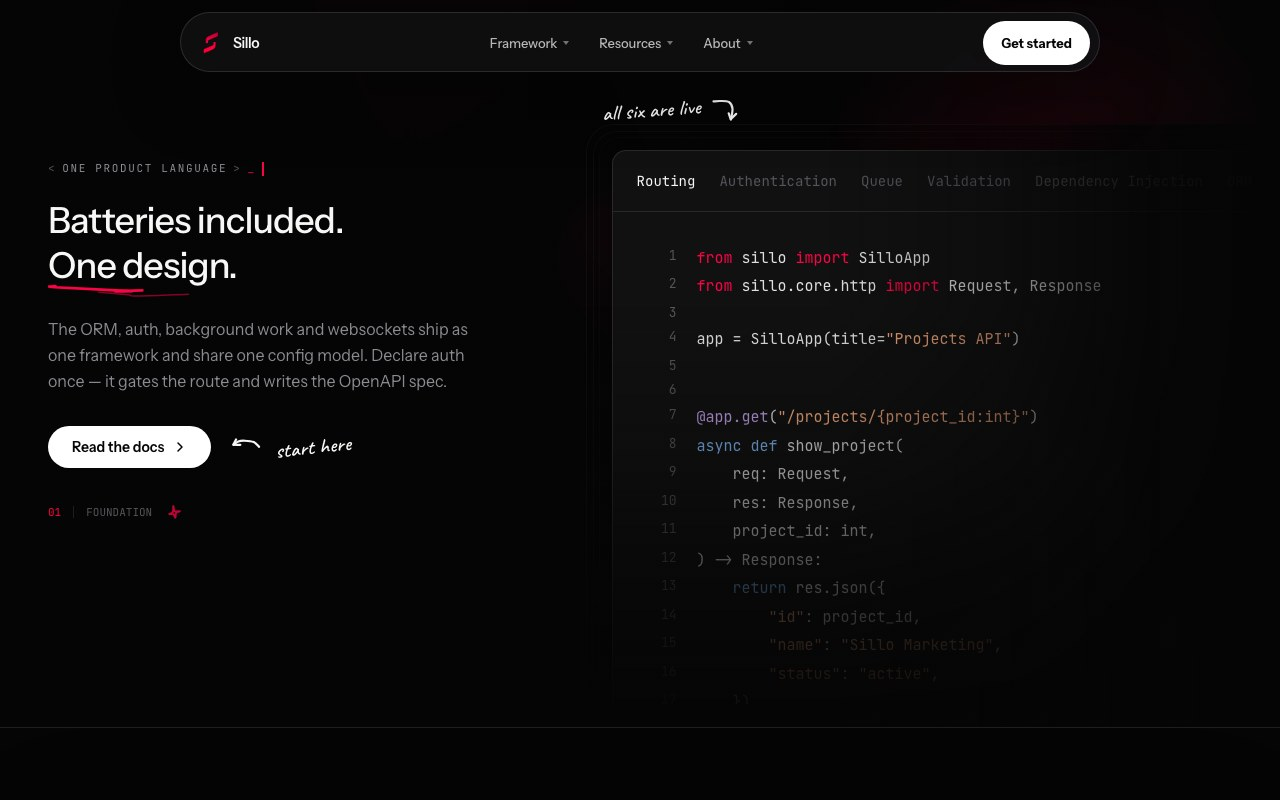
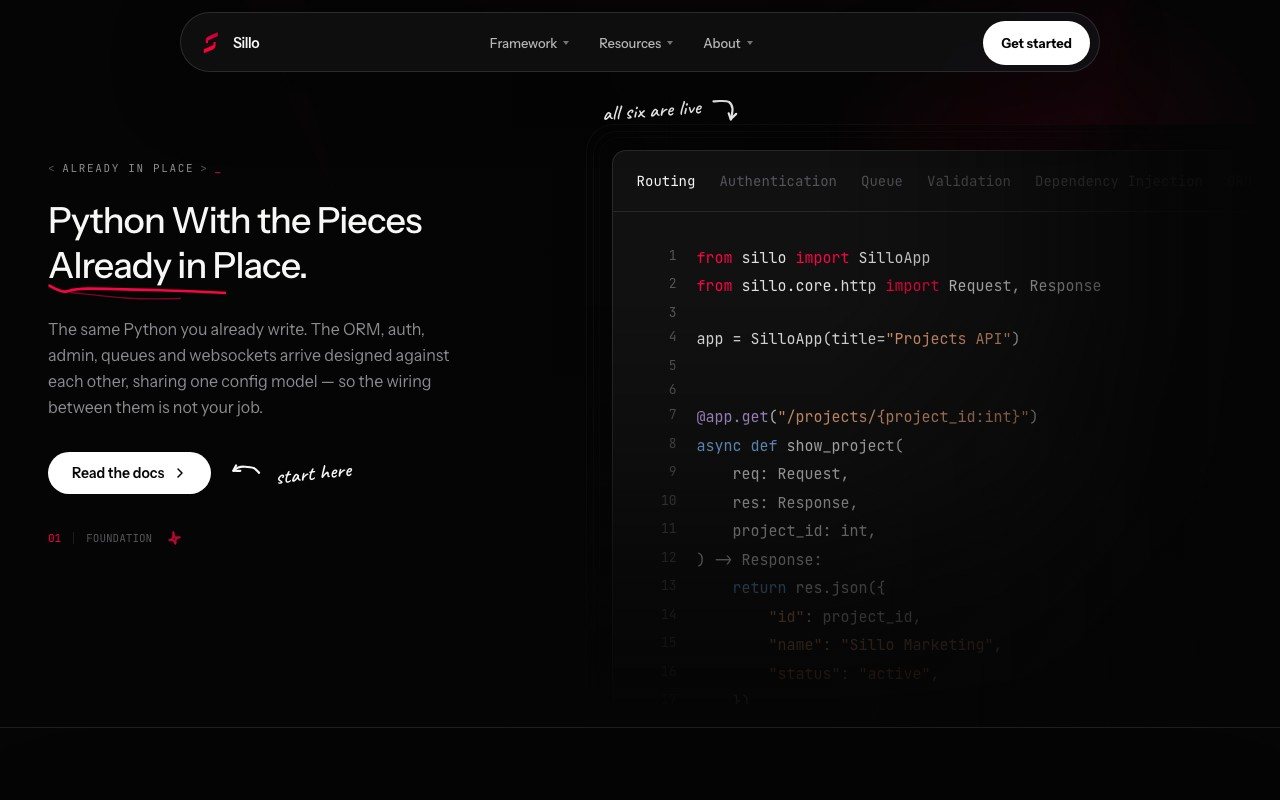
Reposition the site around the new brand tagline
"Python With the Pieces Already in Place." becomes the hero line, and
the supporting copy is rewritten so every section ladders up to it: the
same Python you already write, with the backend pieces designed against
each other instead of gathered together.

The hero headline was an h2 and the page had no h1 at all. It is now the
h1, which is both correct structurally and the right element for the
line the site is built around.

Replaces the About roadmap board. It marked Mail, Cache, Admin,
Scheduler, Inertia and GraphQL as planning, in-progress or under review
while the docs, the homepage and the comparison table all present them
as shipped — each was verified against the docs tree and pyproject
before the change. It is now an inventory grouped by application area,
with the card design, dots and counts unchanged.

Metadata now splits by audience: title and description are keyword-led
because they are matched against queries, while og:/twitter: carry the
tagline because a human reads those in a shared link.

og-image.jpg is regenerated from the live hero — it is a screenshot, so
it still had the previous tagline baked into it and every share would
have carried the old positioning.

diff --git a/app/routes/about.tsx b/app/routes/about.tsx
@@ -12,16 +12,18 @@ const ABOUT_TABS = [
     id: 'philosophy',
     label: 'What Sillo is',
     eyebrow: '01 / WHAT SILLO IS',
-    title: 'One product language for the whole async Python stack.',
-    intro: 'Sillo is one framework where the ORM, auth, background work, websockets and HTTP layer are designed against each other and share one config model.',
+    title: 'One framework, designed as one thing.',
+    intro: 'Sillo is the Python you already write, with the ORM, auth, background work, websockets and HTTP layer already in place — designed against each other and sharing one config model.',
     body: [
-      'A product that starts as one route quickly needs validation, migrations, permissions, background jobs, mail, caching, events, WebSockets, and an admin. Assembled from separate packages, each of those arrives with its own interface, its own configuration style, its own failure mode, and its own upgrade cycle. The cost is rarely the install. It is the seams between them.',
-      'Sillo removes the seams. Record, auth, Work, and websockets are first-party modules built against one another: they share a configuration model, a testing story, and a set of naming conventions. Reading one subsystem teaches you how to read the next.',
+      'The language does not change. You write the same Python, with the same type hints and the same async you already know. What changes is how much of the backend is waiting for you when you start.',
+      'A product that begins as one route quickly needs validation, migrations, permissions, background jobs, mail, caching, events, WebSockets, and an admin. Every one of those is a solved problem with good packages behind it. The work that remains is the fitting: each arrives with its own interface, its own configuration style, its own failure mode, and its own upgrade cycle. The cost is rarely the install. It is the seams between them.',
+      'Sillo puts those pieces in place with the seams already closed. Record, auth, Work, and websockets are first-party modules built against one another: they share a configuration model, a testing story, and a set of naming conventions. Reading one subsystem teaches you how to read the next.',
       'That coherence shows up in small places. One auth= declaration gates a route and writes its securityScheme into the OpenAPI spec, so the gate and the document cannot drift apart. The scheduler registers on app.state and starts with the application lifecycle. Range requests, ETags, and content negotiation are middleware rather than something each project rewrites.',
       'Sillo is opinionated at the defaults and open at the boundaries. The common path is short: SilloApp, a route, a request_model, a Record model. The advanced path is documented rather than hidden — auth backends, middleware, cache drivers, session stores, and hashing algorithms are all contracts you can implement yourself.',
       'Trade-offs are decisions, not gaps. The sillo command carries the framework-level operations, and inside a project it merges in whatever that project registers, so sillo db:migrate works without the framework owning the command set. Underneath, every operation stays a plain function in sillo.record.commands, sillo.users.commands and sillo.work.commands — the names are yours to choose.',
       'The admin panel follows the same rule. It registers your models and authenticates against your own user model instead of shipping a parallel user table, because a second identity system is exactly the kind of seam Sillo exists to remove.',
       'Modules stay useful on their own. Point Record at SQLite or Postgres, swap the cache backend from memory to Redis, bring your own session store, serve a React or Vue frontend through Inertia, or add a Strawberry GraphQL endpoint. Strong defaults make the common path fast; documented contracts keep advanced teams in control.',
+      'In place does not mean installed regardless. The base package is the HTTP layer, routing, validation, dependency injection, and the middleware stack. Record, JWT, templating, Redis and the rest are optional extras declared in pyproject.toml and pulled in when the product actually needs them, so the dependency tree stays proportional to what you build.',
       'The operating principles are short: strong defaults with open boundaries, convenience without mystery, documentation as part of the interface, and compatibility as a promise. Anything the framework does on your behalf is something you can read, override, or replace.',
       'What Sillo avoids matters as much as what it ships. Not a set of modules that share a logo but not an architecture. Not convenience that turns into mystery the first time something breaks. Not impressive demos at the expense of upgrades, debugging, security, and production failure modes.',
       'The result is fewer disconnected decisions. You learn one set of conventions and apply them across HTTP, data, auth, and background work, and the framework holds those pieces together instead of leaving the joins to you.',
@@ -31,8 +33,8 @@ const ABOUT_TABS = [
     id: 'ships',
     label: 'What ships',
     eyebrow: '02 / WHAT SHIPS',
-    title: 'What is shipped, what is in flight, and what is next.',
-    intro: 'The working board for the framework — every subsystem tracked in the open, from planning to completed.',
+    title: 'Every piece, and what each one covers.',
+    intro: 'The full inventory of first-party modules, grouped by the part of the application they belong to. Each one is in the framework and documented.',
     body: [],
   },
   {
@@ -67,64 +69,68 @@ const BRAND_FONTS = [
   { name: 'JetBrains Mono', usage: 'Code, labels, metadata, terminal UI' },
 ]
 
+// Index ranges, so they must be re-checked whenever a paragraph is added to
+// or removed from ABOUT_TABS[0].body.
 const PHILOSOPHY_SECTIONS = [
-  { title: 'The Seams', paragraphs: ABOUT_TABS[0].body.slice(0, 3) },
-  { title: 'How Sillo Is Built', paragraphs: ABOUT_TABS[0].body.slice(3, 7) },
-  { title: 'Principles And Boundaries', paragraphs: ABOUT_TABS[0].body.slice(7) },
+  { title: 'The Seams', paragraphs: ABOUT_TABS[0].body.slice(0, 4) },
+  { title: 'How Sillo Is Built', paragraphs: ABOUT_TABS[0].body.slice(4, 9) },
+  { title: 'Principles And Boundaries', paragraphs: ABOUT_TABS[0].body.slice(9) },
 ]
 
+// Grouped by the part of the application each module belongs to. Everything
+// listed here is in the framework and has a documentation page — this board is
+// an inventory, not a schedule.
 const KANBAN_COLUMNS = [
   {
-    title: 'Planning',
-    tag: 'Scoped, not started',
-    dot: 'bg-dimmed',
-    pulse: false,
-    items: [
-      ['Mail', 'Templated mail', 'A mail client with queued delivery, built on the Work subsystem.'],
-      ['Events', 'Redis event transport', 'A Redis transport for the emitter, alongside the in-memory default.'],
-      ['Sessions', 'More session stores', 'Backends beyond signed-cookie and file, behind the same contract.'],
-      ['Templating', 'Server-side templating', 'Rendering helpers for HTML responses, with escaping by default.'],
-      ['Testing', 'Streaming test coverage', 'Sync and async test clients covering websockets and streamed responses.'],
-    ],
-  },
-  {
-    title: 'In Progress',
-    tag: 'Being built',
+    title: 'The request',
+    tag: 'HTTP and routing',
     dot: 'bg-primary',
-    pulse: true,
-    items: [
-      ['Work', 'Queues and workers', 'Durable background jobs as one subsystem with the scheduler.'],
-      ['Frontend', 'Inertia', 'Server-driven React and Vue frontends, served by the framework.'],
-      ['Cache', 'Cache backends', 'Pluggable drivers, from in-memory to Redis, behind one interface.'],
-      ['GraphQL', 'GraphQL endpoint', 'A Strawberry endpoint mounted beside the HTTP routes.'],
-    ],
-  },
-  {
-    title: 'Review',
-    tag: 'Under review',
-    dot: 'bg-amber-400',
-    pulse: false,
-    items: [
-      ['Admin', 'Admin panel', 'A model admin at /admin/ that authenticates against your own user model.'],
-      ['Tooling', 'sillo-start', 'New projects scaffolded from the starter repository, personalised on fetch.'],
-      ['Work', 'Scheduler', 'Cron-style jobs registered on app.state and started by the app lifecycle.'],
-    ],
-  },
-  {
-    title: 'Completed',
-    tag: 'Shipped',
-    dot: 'bg-emerald-400',
-    pulse: false,
     items: [
       ['HTTP', 'Routing and lifecycle', 'Decorator and router-based routes, mountable subapps, typed path parameters.'],
       ['HTTP', 'Response builder', 'JSON, text, HTML, files, streams, redirects, and cookies in one fluent API.'],
       ['HTTP', 'HTTP correctness', 'RFC 9110 ranges, ETags, conditional requests, and content negotiation.'],
+      ['Validation', 'Request models', 'request_model turns untrusted bodies into validated Pydantic objects at the boundary.'],
+      ['DI', 'Dependency injection', 'Depend resolves services and request-aware providers in the handler signature.'],
+      ['OpenAPI', 'Generated spec', 'The document is generated from your routes, parameters, and declared response models.'],
+    ],
+  },
+  {
+    title: 'The data',
+    tag: 'Record and storage',
+    dot: 'bg-emerald-400',
+    items: [
       ['Record', 'Record models', 'Active-record fields, casting, scopes, events, and transactions.'],
       ['Record', 'Migrations', 'Schema migrations as built-in commands over sillo.record.commands.'],
+      ['Record', 'Pagination', 'Cursor and page-based pagination on the query builder.'],
+      ['Cache', 'Cache backends', 'Pluggable drivers, from in-memory to Redis, behind one interface.'],
+      ['Storage', 'File uploads', 'Streamed uploads with local and cloud-compatible drivers.'],
+    ],
+  },
+  {
+    title: 'The people',
+    tag: 'Auth and admin',
+    dot: 'bg-amber-400',
+    items: [
       ['Auth', 'Auth backends', 'JWT, session, and API-key behind one contract — auth= gates the route and writes its securityScheme.'],
       ['Auth', 'Permissions', 'DB-backed named permissions with group inheritance and one-call caching.'],
-      ['OpenAPI', 'OpenAPI', 'The spec is generated from your routes and declared response models.'],
+      ['Auth', 'OAuth2', 'Social login as two functions, with no router or response object of its own.'],
+      ['Admin', 'Admin panel', 'A model admin at /admin/ that authenticates against your own user model.'],
+      ['Security', 'CORS, CSRF, rate limits', 'Security headers, origin policy, token protection, and throttling as middleware.'],
+      ['Sessions', 'Session stores', 'Signed-cookie and file backends behind one interface.'],
+    ],
+  },
+  {
+    title: 'Beyond the request',
+    tag: 'Work and real-time',
+    dot: 'bg-sky-400',
+    items: [
+      ['Work', 'Queues and workers', 'Durable background jobs as one subsystem with the scheduler.'],
+      ['Work', 'Scheduler', 'Cron-style jobs registered on app.state and started by the app lifecycle.'],
+      ['Events', 'Event bus', 'An emitter with pluggable transports, alongside the in-memory default.'],
       ['Real-time', 'WebSockets', 'Consumers, channels, groups, and connection history.'],
+      ['Mail', 'Templated mail', 'A mail client with queued delivery, built on the Work subsystem.'],
+      ['Frontend', 'Inertia and templating', 'Server-driven React and Vue frontends, plus HTML rendering with escaping by default.'],
+      ['Testing', 'Test clients', 'Sync and async clients covering routes, auth, jobs, websockets, and streamed responses.'],
     ],
   },
 ]
@@ -245,13 +251,13 @@ function KanbanBoard() {
           <div className="mb-4 flex items-start justify-between px-2 py-2">
             <div>
               <div className="flex items-center gap-2.5">
-                <span className={`h-2 w-2 rounded-full ${column.dot}${column.pulse ? ' motion-safe:animate-pulse' : ''}`} />
+                <span className={`h-2 w-2 rounded-full ${column.dot}`} />
                 <h2 className="text-xl font-semibold tracking-[-0.04em] text-text">{column.title}</h2>
               </div>
               <div className="mt-1 font-mono text-[10px] uppercase tracking-[0.14em] text-dimmed">{column.tag}</div>
             </div>
             <span className="flex items-center gap-2">
-              {column.title === 'Completed' && (
+              {column.title === 'Beyond the request' && (
                 <Doodle name="tick" tone="red" seed={149} size={19} rotate={-8} show="tablet" className="opacity-85" />
               )}
               <span className="rounded-full border border-border/70 px-2.5 py-1 font-mono text-[10px] text-muted">

diff --git a/index.html b/index.html
@@ -6,11 +6,18 @@
     <meta name="viewport" content="width=device-width, initial-scale=1.0" />
     <meta http-equiv="X-UA-Compatible" content="IE=edge" />
 
-    <!-- Primary Meta Tags (SEO) -->
-    <title>Sillo: The batteries-included async Python framework</title>
-    <meta name="title" content="Sillo: The batteries-included async Python framework" />
-    <meta name="description" content="An async Python web framework where the ORM, auth, background work, websockets and HTTP layer are one product. Declare auth once: it gates the route and writes the OpenAPI spec." />
-    <meta name="keywords" content="Python web framework, async Python, ASGI framework, Python API, real-time Python, batteries included framework, Python ORM, Python ASGI" />
+    <!--
+      Primary Meta Tags (SEO)
+
+      The <title> and description are written for search: they name the
+      capabilities people actually query for. The brand tagline lives in the
+      og:/twitter: tags below, which are read by humans in a shared link rather
+      than matched against a query.
+    -->
+    <title>Sillo — Async Python Web Framework with ORM, Auth and Queues</title>
+    <meta name="title" content="Sillo — Async Python Web Framework with ORM, Auth and Queues" />
+    <meta name="description" content="Sillo is an async Python web framework for APIs, real-time apps and production backends. The ORM, authentication, admin, job queues, scheduler and WebSockets are already in place and share one configuration model." />
+    <meta name="keywords" content="Python web framework, async Python framework, Python backend framework, full-stack Python, ASGI framework, Python API framework, Python ORM, Python authentication, Python job queue, Python scheduler, real-time Python, Python WebSockets, production Python applications" />
     <meta name="author" content="Chidebele Dunamis" />
     <meta name="robots" content="index, follow, max-image-preview:large, max-snippet:-1, max-video-preview:-1" />
     <meta name="language" content="English" />
@@ -18,8 +25,8 @@
     <!-- Open Graph / Facebook -->
     <meta property="og:type" content="website" />
     <meta property="og:url" content="https://sillo.build/" />
-    <meta property="og:title" content="Sillo: The batteries-included async Python framework" />
-    <meta property="og:description" content="An async Python web framework where the ORM, auth, background work, websockets and HTTP layer are one product, sharing one config model." />
+    <meta property="og:title" content="Sillo: Python With the Pieces Already in Place" />
+    <meta property="og:description" content="The same Python you already write, with the ORM, auth, admin, queues, scheduler and WebSockets designed against each other and sharing one config model." />
     <!--
       Must be a raster format. Every major scraper (Twitter, LinkedIn, WhatsApp,
       Facebook, Slack, Discord) refuses SVG for og:image and falls back to no
@@ -33,17 +40,17 @@
     <meta property="og:image:type" content="image/jpeg" />
     <meta property="og:image:width" content="1280" />
     <meta property="og:image:height" content="800" />
-    <meta property="og:image:alt" content="Sillo: Batteries included. One design. A routing example showing a typed path parameter passed straight into the handler." />
+    <meta property="og:image:alt" content="Sillo: Python With the Pieces Already in Place. A routing example showing a typed path parameter passed straight into the handler." />
     <meta property="og:site_name" content="Sillo" />
     <meta property="og:locale" content="en_US" />
 
     <!-- Twitter -->
     <meta name="twitter:card" content="summary_large_image" />
     <meta name="twitter:url" content="https://sillo.build/" />
-    <meta name="twitter:title" content="Sillo: The batteries-included async Python framework" />
-    <meta name="twitter:description" content="An async Python web framework where the ORM, auth, background work, websockets and HTTP layer are one product, sharing one config model." />
+    <meta name="twitter:title" content="Sillo: Python With the Pieces Already in Place" />
+    <meta name="twitter:description" content="The same Python you already write, with the ORM, auth, admin, queues, scheduler and WebSockets designed against each other and sharing one config model." />
     <meta name="twitter:image" content="https://sillo.build/og-image.jpg" />
-    <meta name="twitter:image:alt" content="Sillo: Batteries included. One design. A routing example showing a typed path parameter passed straight into the handler." />
+    <meta name="twitter:image:alt" content="Sillo: Python With the Pieces Already in Place. A routing example showing a typed path parameter passed straight into the handler." />
     <meta name="twitter:site" content="@sillohq" />
     <meta name="twitter:creator" content="@sillohq" />
 
@@ -88,7 +95,7 @@
       "name": "Sillo",
       "url": "https://sillo.build",
       "logo": "https://sillo.build/logo.svg",
-      "description": "An async Python web framework where the ORM, auth, background work, websockets and HTTP layer are one product, sharing one config model.",
+      "description": "An async Python web framework for APIs, real-time applications and production backends. The ORM, authentication, admin, job queues, scheduler and WebSockets are first-party modules sharing one configuration model.",
       "sameAs": [
         "https://github.com/sillohq/core",
         "https://twitter.com/sillohq"
@@ -107,7 +114,7 @@
       "@type": "SoftwareApplication",
       "name": "Sillo",
       "applicationCategory": "DeveloperApplication",
-      "description": "An async Python web framework where the ORM, auth, background work, websockets and HTTP layer are one product, sharing one config model.",
+      "description": "An async Python web framework for APIs, real-time applications and production backends. The ORM, authentication, admin, job queues, scheduler and WebSockets are first-party modules sharing one configuration model.",
       "operatingSystem": "Cross-platform",
       "url": "https://github.com/sillohq/core",
       "offers": {

diff --git a/app/routes/index.tsx b/app/routes/index.tsx
@@ -336,25 +336,25 @@ function Hero() {
             {/* Eyebrow */}
             <div className="font-mono text-[11px] text-muted tracking-[0.15em] mb-5 flex items-center gap-1.5">
               <span className="text-dimmed">&lt;</span>
-              <span>ONE PRODUCT LANGUAGE</span>
+              <span>ALREADY IN PLACE</span>
               <span className="text-dimmed">&gt;</span>
               <span className="text-primary">_</span>
               <span className="w-[2px] h-3.5 bg-primary cursor-blink" />
             </div>
 
-            {/* Headline */}
-            <h2 className="text-text text-3xl md:text-4xl mb-7 max-w-[520px] font-medium leading-tight tracking-tight">
-              Batteries included.<br />
-              <MarkerUnderline seed={23} weight={2.6} draw delay={0.45}>
-                One design.
+            {/* Headline — the brand tagline, verbatim. */}
+            <h1 className="text-text text-3xl md:text-4xl mb-7 max-w-[520px] font-medium leading-tight tracking-tight">
+              Python With the Pieces<br />
+              <MarkerUnderline seed={63} weight={2.6} draw delay={0.45}>
+                Already in Place.
               </MarkerUnderline>
-            </h2>
+            </h1>
 
             {/* Subhead */}
             <p className="text-muted text-base leading-relaxed mb-8 max-w-[460px]">
-              The ORM, auth, background work and websockets ship as one framework and
-              share one config model. Declare auth once — it gates the route and writes
-              the OpenAPI spec.
+              The same Python you already write. The ORM, auth, admin, queues and
+              websockets arrive designed against each other, sharing one config model —
+              so the wiring between them is not your job.
             </p>
 
             {/* CTA */}
@@ -1001,7 +1001,8 @@ function OneFramework() {
             </h2>
             <p className="text-muted text-base leading-relaxed mb-10 max-w-[420px]">
               Every capability is a first-party module with shared configuration,
-              consistent APIs, and one set of testing utilities. Nothing to assemble.
+              consistent APIs, and one set of testing utilities. The pieces are
+              already in place — and already fitted to each other.
             </p>
             <div className="space-y-1 border-l border-border/70 pl-3">
               {CAPABILITY_KEYS_V2.map((key, i) => {
@@ -1231,7 +1232,7 @@ function ArchitectureSection() {
                 <Doodle name="sparkle" tone="red" seed={61} size={14} rotate={-11} show="tablet" className="opacity-80" />
               </div>
               <h2 className="text-4xl md:text-6xl lg:text-7xl font-semibold leading-[0.96] tracking-[-0.06em] text-text">
-                The whole foundation is one product, not eleven packages.
+                The foundation is already here, and it was designed as one thing.
               </h2>
             </div>
             <MarkerCircle seed={67} weight={2.2} padX={28} padY={36} rotate={-1} className="mt-10">
@@ -1357,12 +1358,12 @@ function EcosystemSection() {
         <div className="grid grid-cols-1 lg:grid-cols-2 gap-12 lg:gap-20">
           <div>
             <h2 className="mb-4">
-              A framework is only<br />
-              the beginning.
+              The pieces around<br />
+              the framework.
             </h2>
             <p className="text-muted text-base leading-relaxed max-w-[420px]">
-              An ecosystem of tools being built around Sillo to handle administration,
-              deployment, monitoring, and authentication.
+              Scaffolding, a reference application, an Inertia adapter, OAuth, and an
+              OpenAPI reference — each one a package you install when you need it.
             </p>
           </div>
           <div className="grid grid-cols-1 md:grid-cols-2 gap-3">
@@ -1461,7 +1462,7 @@ function FinalCta() {
                 <BrushStroke tone="red" seed={109} rotate={-1.4} opacity={0.92}>
                   Build the product.
                 </BrushStroke><br />
-                Sillo handles the foundation.
+                The pieces are already in place.
               </h2>
               <p className="text-muted text-base leading-relaxed mb-9 max-w-[520px]">
                 Python 3.10+ &middot; BSD 3-Clause &middot; Open source on GitHub

diff --git a/app/data/content.ts b/app/data/content.ts
@@ -2,12 +2,12 @@ import { DOCS_LINKS, DOCS_URL as DOCS, GITHUB_URL as GITHUB } from './links'
 
 export const BRAND = {
   name: 'Sillo',
-  tagline: 'The productive Python framework',
+  tagline: 'Python With the Pieces Already in Place.',
   subtitle:
-    'Routing, auth, queues, ORM, mail, validation, scheduling, WebSockets and everything you need to build Python web applications.',
-  closing: 'Spend less time assembling. Spend more time building.',
+    'The same Python you already write, with routing, validation, the ORM, auth, the admin, queues, the scheduler, mail and WebSockets designed against each other and sharing one config model.',
+  closing: 'Build the product. The pieces are already in place.',
   closing_sub:
-    'Sillo gives your team the structure, tools and confidence to turn ambitious Python ideas into production software.',
+    'You learn one set of conventions and apply them across HTTP, data, auth and background work, instead of fitting a new interface to each one.',
 } as const
 
 export const CODE_TABS = [

diff --git a/app/routes/__root.tsx b/app/routes/__root.tsx
@@ -7,11 +7,11 @@ export const Route = createRootRoute({
     meta: [
       { charSet: 'utf-8' },
       { name: 'viewport', content: 'width=device-width, initial-scale=1' },
-      { title: 'Sillo: The batteries-included async Python framework' },
+      { title: 'Sillo — Async Python Web Framework with ORM, Auth and Queues' },
       {
         name: 'description',
         content:
-          'An async Python web framework where the ORM, auth, background work, websockets and HTTP layer are one product. Declare auth once: it gates the route and writes the OpenAPI spec.',
+          'Sillo is an async Python web framework for APIs, real-time apps and production backends. The ORM, authentication, admin, job queues, scheduler and WebSockets are already in place and share one configuration model.',
       },
     ],
     links: [
